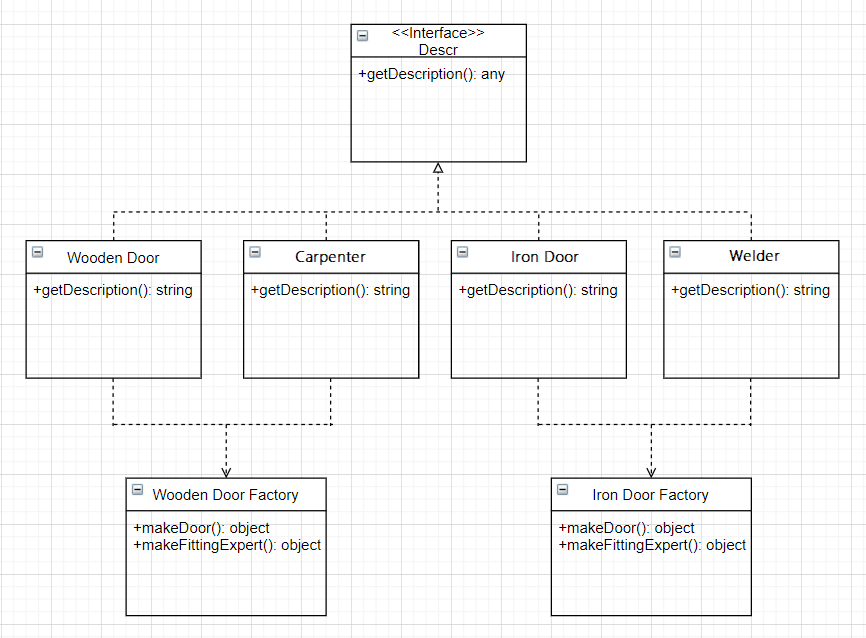
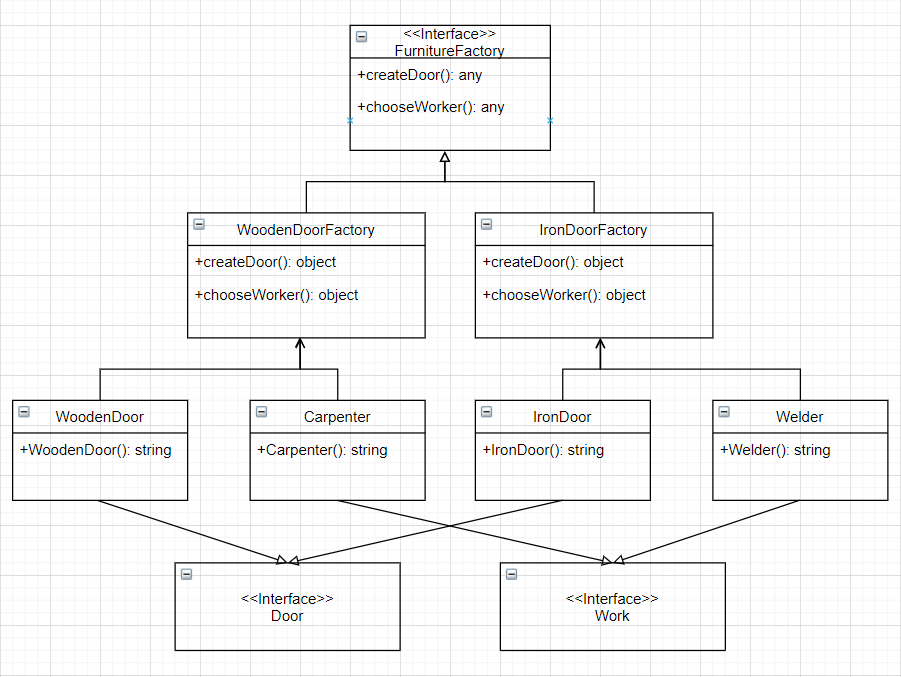
commit2

diff --git a/CrieshinalPatterns/AbstractFactory/AbstractFactory.ts b/CrieshinalPatterns/AbstractFactory/AbstractFactory.ts
@@ -1,51 +1,49 @@
-interface Descr{
-    getDescription: () => any 
+interface FurnitureFactory{
+    createDoor: () => any;
+    chooseWorker: () => any;
 }
 
-class WoodenDoor implements Descr{
-    getDescription() { console.log('Деревяные двери') }
-}
-
-class IronDoor implements Descr{
-    getDescription() { console.log('Металические двери') }
-}
-
-class Welder implements Descr{
-    getDescription() { console.log('Сварщик') }
-}
-
-class Carpenter implements Descr{
-    getDescription(){ console.log('Плотник') }
-}
-
-class WoodenDoorFactory {
-    makeDoor(){
-        return new WoodenDoor()
+class WoodenDoorFactory implements FurnitureFactory{
+    public createDoor(){
+        return new WoodenDoor();
     }
-
-    makeFittingExpert(){
-        return new Carpenter()
+    public chooseWorker(){
+        return new Carpenter();
     }
 }
 
-class IronDoorFactory {
-    makeDoor(){
-        return new IronDoor()
+class IronDoorFactory implements FurnitureFactory{
+    public createDoor(){
+        return new IronDoor();
     }
-
-    makeFittingExpert(){
-        return new Welder()
+    public chooseWorker(){
+        return new Welder();
     }
 }
 
-let woodenFactory = new WoodenDoorFactory();
-let door = woodenFactory.makeDoor();
-let expert = woodenFactory.makeFittingExpert();
-door.getDescription();
-expert.getDescription();
+interface Door{}
+interface Work{}
 
-let ironFactory = new IronDoorFactory()
-let door2 = ironFactory.makeDoor()
-let expert2 = ironFactory.makeFittingExpert()
-door.getDescription()  
-expert.getDescription() 
+class WoodenDoor implements Door{
+    public WoodenDoor(){
+        console.log("Деревяная дверь готова")
+    }
+}
+
+class IronDoor implements Door{
+    public IronDoor(){
+        console.log("Металическая дверь готова")
+    }
+}
+
+class Carpenter implements Work{
+    public Carpenter(){
+        console.log("Плотник готов приступить к работе")
+    }
+}
+
+class Welder implements Work{
+    public Welder(){
+        console.log("Сварщик готов приступить к работе")
+    }
+}

diff --git a/CrieshinalPatterns/AbstractFactory/AbstractFactory.js b/CrieshinalPatterns/AbstractFactory/AbstractFactory.js
@@ -1,38 +1,36 @@
-class WoodenDoor {
-    getDescription() { console.log('Деревяные двери'); }
-}
-class IronDoor {
-    getDescription() { console.log('Металические двери'); }
-}
-class Welder {
-    getDescription() { console.log('Сварщик'); }
-}
-class Carpenter {
-    getDescription() { console.log('Плотник'); }
-}
 class WoodenDoorFactory {
-    makeDoor() {
+    createDoor() {
         return new WoodenDoor();
     }
-    makeFittingExpert() {
+    chooseWorker() {
         return new Carpenter();
     }
 }
 class IronDoorFactory {
-    makeDoor() {
+    createDoor() {
         return new IronDoor();
     }
-    makeFittingExpert() {
+    chooseWorker() {
         return new Welder();
     }
 }
-let woodenFactory = new WoodenDoorFactory();
-let door = woodenFactory.makeDoor();
-let expert = woodenFactory.makeFittingExpert();
-door.getDescription();
-expert.getDescription();
-let ironFactory = new IronDoorFactory();
-let door2 = ironFactory.makeDoor();
-let expert2 = ironFactory.makeFittingExpert();
-door.getDescription();
-expert.getDescription();
+class WoodenDoor {
+    WoodenDoor() {
+        console.log("Деревяная дверь готова");
+    }
+}
+class IronDoor {
+    IronDoor() {
+        console.log("Металическая дверь готова");
+    }
+}
+class Carpenter {
+    Carpenter() {
+        console.log("Плотник готов приступить к работе");
+    }
+}
+class Welder {
+    Welder() {
+        console.log("Сварщик готов приступить к работе");
+    }
+}
